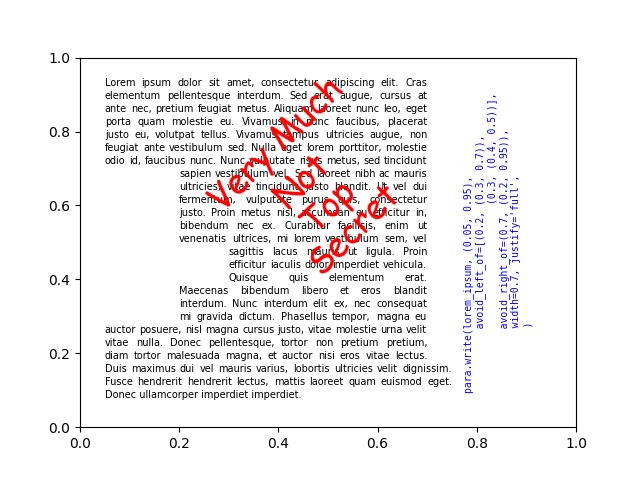
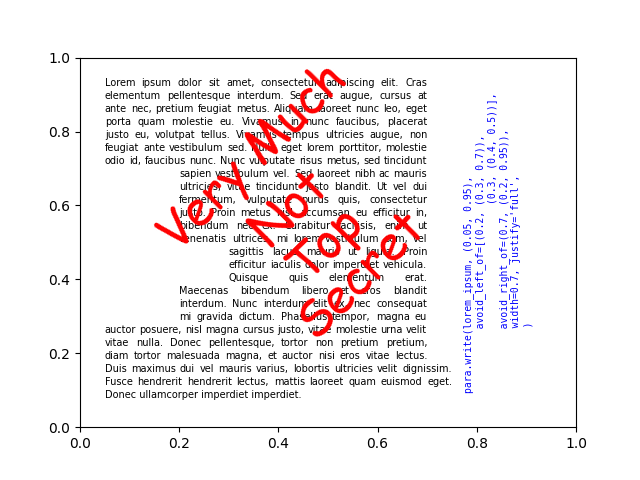
fixed vertical alignment va
removed old code in statics

fixed example for new use of va=

Changed region(s): [[0.25, 0.125, 0.6562, 0.7188]]

diff --git a/parampl/core.py b/parampl/core.py
@@ -193,11 +193,11 @@ Write text into a paragraph
 
         ax = self.axes
 
-        def write_line(left, bottom, text_in_line):
+        def write_line(left, bottom, text_in_line, zorder=3):
 
             ax.text(left, bottom, text_in_line,
                     fontsize=fontsize, color=color, rotation=rotation,
-                    family=family, **fontname_dict)
+                    family=family, zorder=zorder, **fontname_dict)
 
         old_artists = list(ax.texts)
 
@@ -264,19 +264,30 @@ Write text into a paragraph
                            ' '.join(words))
                 lp.next_line()
 
-        if va == 'bottom':
-            total_height = lp.total_height()
+        total_height = lp.total_height()
+        lowest = min(lp.y,
+                     lp.y + self.width * np.sin(lp.rotation*np.pi/180),
+                     lp.y_orig + lp.delta_y,
+                     lp.y_orig + lp.delta_y + self.width * np.sin(lp.rotation*np.pi/180),
+                     )
+        delta = lp.y_orig - lowest
+
+        if va == 'top':
             for artist in ax.texts:
                 if artist not in old_artists:
-                    artist.set_y(artist.get_position()[1] + total_height)
+                    artist.set_y(artist.get_position()[1] + delta - total_height)
+
+        elif va == 'bottom':
+            for artist in ax.texts:
+                if artist not in old_artists:
+                    artist.set_y(artist.get_position()[1] + delta)
 
         elif va == 'center':
-            total_height = lp.total_height()
             for artist in ax.texts:
                 if artist not in old_artists:
-                    artist.set_y(artist.get_position()[1] + total_height / 2)
+                    artist.set_y(artist.get_position()[1] + delta - total_height / 2)
 
-        elif va != 'top':
+        else:
             raise ValueError(f"invalid va '{va}'. Must be 'top', 'bottom', or 'center'")
 
     def _get_widths_height(self, fontsize, family, fontname,

diff --git a/parampl/statics.py b/parampl/statics.py
@@ -73,25 +73,6 @@ def finish_with_bottom(x, w,
             (None, x, w)]
 
 
-def write_line(ax, xy, words,
-               length, width,
-               fontsize, color,
-               justify, widths):
-
-    x, y = xy
-
-    if justify == 'left' or justify == 'right':
-        ax.text(x, y + (justify == 'right') * (width - length), ' '. join(words),
-                fontsize=fontsize, color=color)
-
-    elif justify == 'full':
-        extra_spacing = (width - length) / (len(words) - 1)
-        for word in words:
-            ax.text(x, y, word,
-                    fontsize=fontsize, color=color)
-            x += extra_spacing + widths[word]
-
-
 def parse_avoid(original_borders,
                 avoid_left_of: avoid_specification,
                 avoid_right_of: avoid_specification,

diff --git a/quickstart.py b/quickstart.py
@@ -37,12 +37,13 @@ eval(command)
 para.write(command, (0.8, 0.1), rotation=90,
            collapse_whites=False, paragraph_per_line=True,
            justify='left', spacing=0.2,
+           va='bottom',
            family='monospace', color='blue')
 
 para.write("Very Much\nNot\nTop\nSecret", (0.5, 0.5),
            rotation=45,
            fontsize=35, width=0.6,
-           ha='center', va='top',
+           ha='center', va='center',
            collapse_whites=False, paragraph_per_line=True,
            justify='center', spacing=0,
            family='cursive', color='red')
